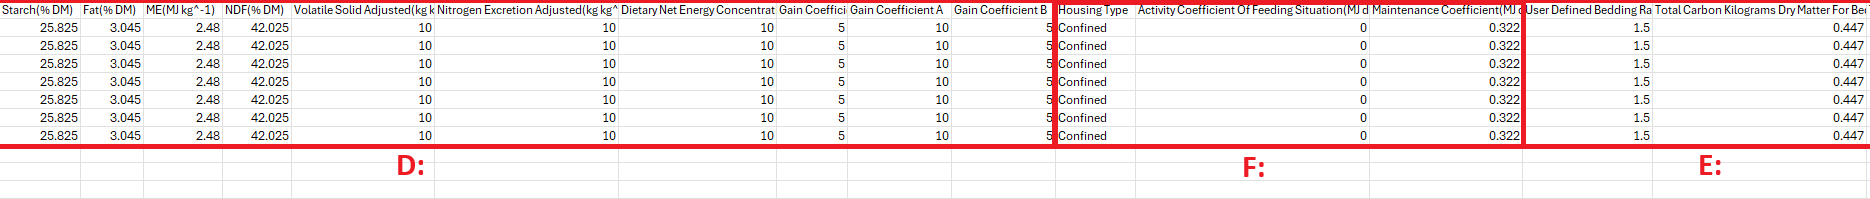
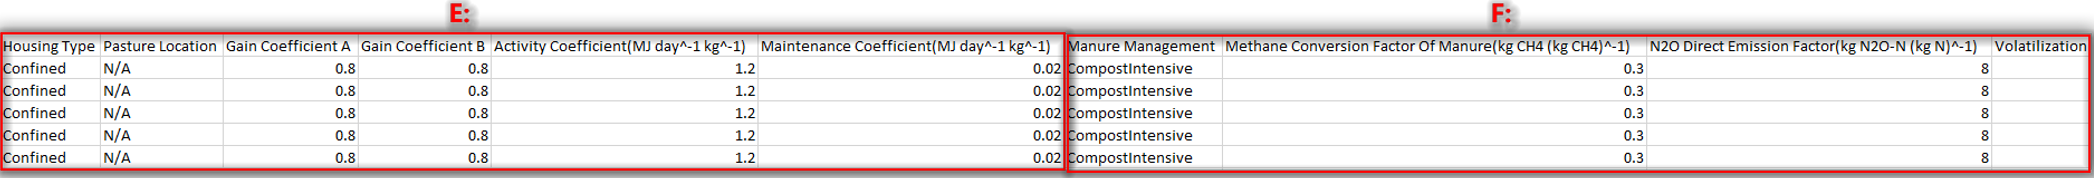
Revert "updated figure10-26,27,28,28b"
This reverts commit beb58f24119c3afce20de73e158681ae96639ad7.

diff --git a/H.Content/Documentation/User Guide/User Guide.md b/H.Content/Documentation/User Guide/User Guide.md
@@ -3214,7 +3214,7 @@ Below is an example of a beef component data file broken into sections
 -	Each row in the Excel file will refer to **one of these animal groups** and **one management period** (an animal group can have multiple management periods).
 -	**If you have multiple management periods for an animal group (same group name and group type)**, please add another row referring to the same animal group but change the management period data accordingly.
 -	Sheep components have specific data for **wool production, energy required to produce wool, energy required to produce milk, gain coefficient A and gain coefficient B**,
--	**If the data does not apply to an animal group, please enter “N/A”**
+-	**If the data does not apply to an animal group, please enter “N/A” as shown below in figure 10.18**
 
 Below is an example of a sheep component data file broken into sections
 
@@ -3257,18 +3257,7 @@ Below is an example of a sheep component data file broken into sections
 		<br>
 		E: Housing details for management period.
 		<br>
-		F: Bedding details for management period.
-	</em>
-</p>
-<br>
-
-<p align="center">
- <img src="../../Images/UserGuide/en/chapter10/figure10-28b.png" alt="Figure10-28b" width="950"/>
-    <br>
-    <em>
-		Figure 10-28b - Sheep Data Section 4.
-		<br>
-		F: Bedding details for management period.
+		F: Manure details for management period.
 	</em>
 </p>
 <br>
